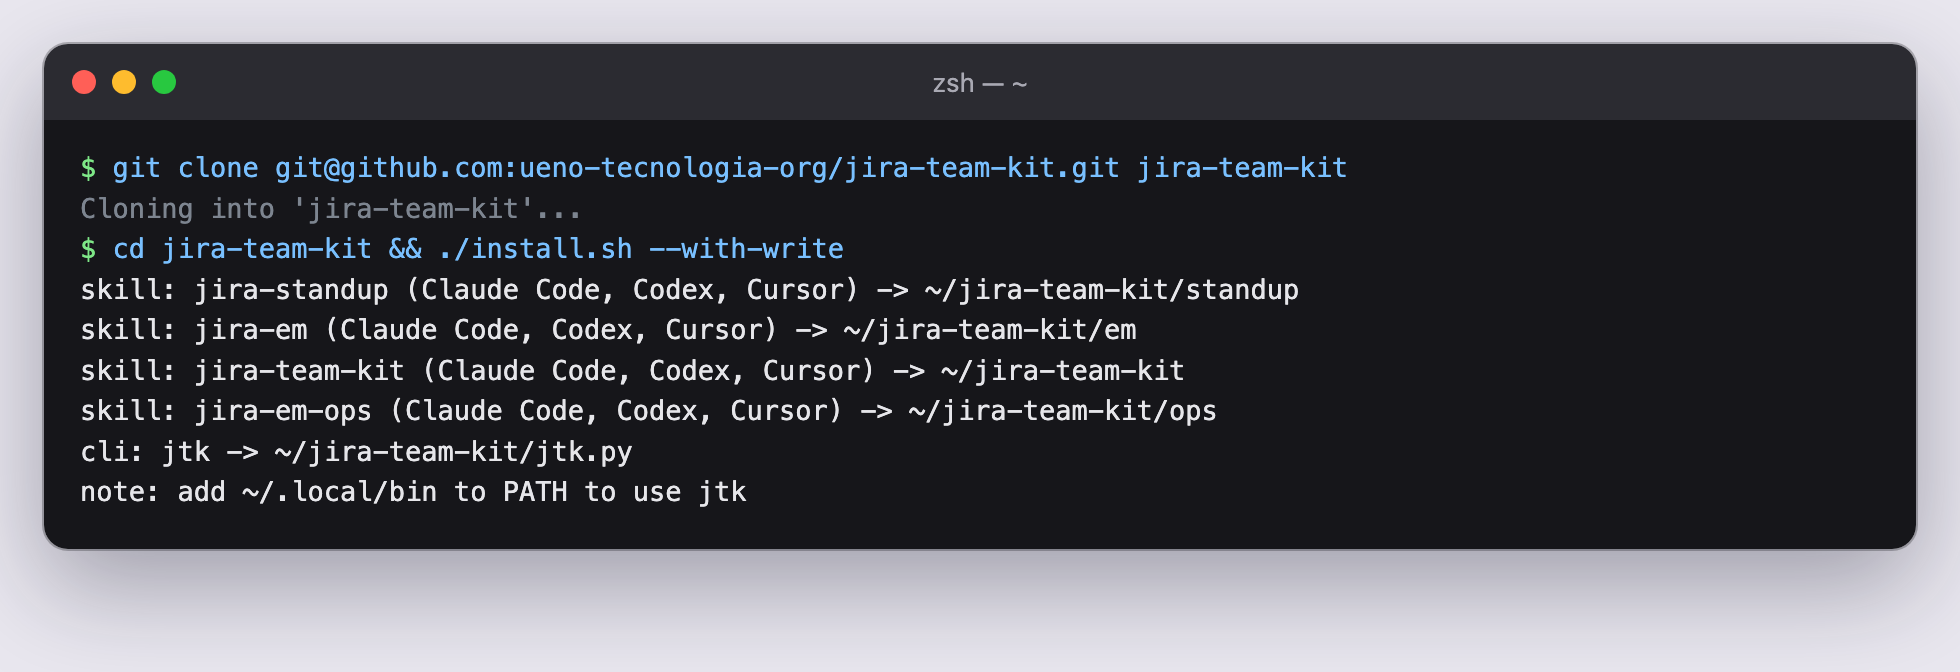
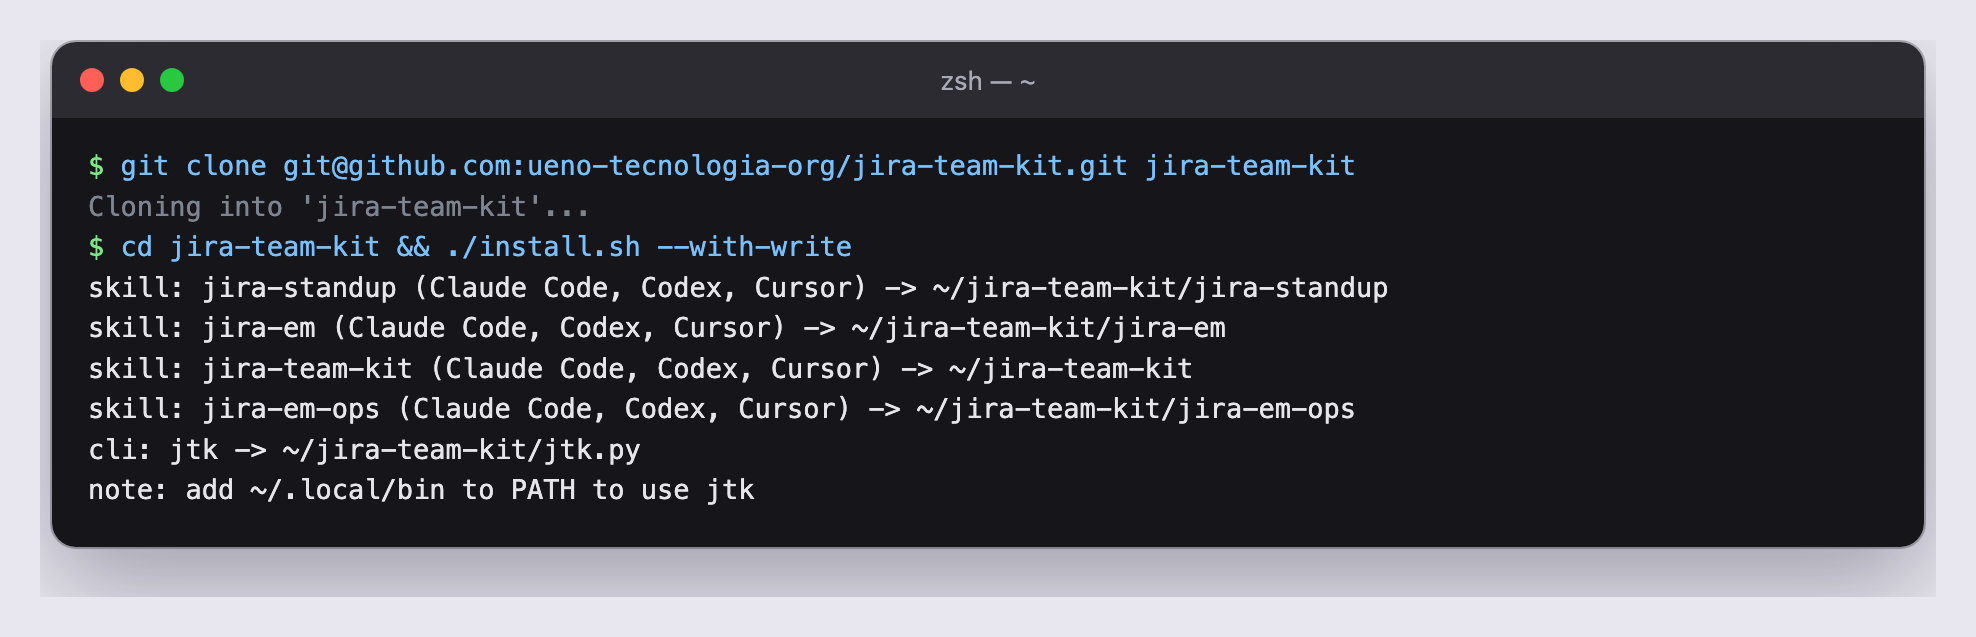
docs: regenerar las capturas del instalador con las carpetas jira-*
install.sh ahora imprime jira-standup, jira-em y jira-em-ops en lugar de
standup, em y ops. La salida sale de correr ./install.sh --with-write en un
HOME falso.

Changed region(s): [[0.0, 0.0597, 0.9959, 0.865], [0.4668, 0.1193, 0.5291, 0.1491]]

diff --git a/docs/img/src/cursor-instalar.html b/docs/img/src/cursor-instalar.html
@@ -17,9 +17,9 @@ code{font:12.5px Menlo,monospace;background:#2b2b34;padding:1px 5px;border-radiu
 .in{margin:6px 22px 16px;border:1px solid #3a3a46;border-radius:10px;padding:10px 14px;color:#6c6c7a;font-size:13px}
 .right{flex:1;display:flex;flex-direction:column;min-width:0}</style><div class="win"><div class="bar"><div class="dots"><span class="r"></span><span class="y"></span><span class="g"></span></div><div class="ttl">jira-team-kit — Cursor</div></div><div class="main"><div class="side"><b>EXPLORER</b><div class="hot">▾ mi-proyecto</div><div class="i">▸ src</div><div class="i hot">▾ .jira-kanban</div><div class="j">conventions.json</div><div class="i">▸ specs</div><div class="i">package.json</div><div class="i">README.md</div></div><div class="right"><div class="chat"><div class="u">Instalá jira-team-kit: cloná git@github.com:josefigueredo/jira-team-kit.git y corré ./install.sh --with-write</div><div class="a"><p>Lo clono y corro el instalador. Solo crea enlaces a tu clon; no copia ni pisa archivos.</p><span class="chip"><em>Ran</em> git clone git@github.com:josefigueredo/jira-team-kit.git jira-team-kit
 <span>Cloning into &#x27;jira-team-kit&#x27;...</span></span><span class="chip"><em>Ran</em> cd jira-team-kit &amp;&amp; ./install.sh --with-write
-<span>skill: jira-standup (Claude Code, Codex, Cursor) -&gt; ~/jira-team-kit/standup
-skill: jira-em (Claude Code, Codex, Cursor) -&gt; ~/jira-team-kit/em
+<span>skill: jira-standup (Claude Code, Codex, Cursor) -&gt; ~/jira-team-kit/jira-standup
+skill: jira-em (Claude Code, Codex, Cursor) -&gt; ~/jira-team-kit/jira-em
 skill: jira-team-kit (Claude Code, Codex, Cursor) -&gt; ~/jira-team-kit
-skill: jira-em-ops (Claude Code, Codex, Cursor) -&gt; ~/jira-team-kit/ops
+skill: jira-em-ops (Claude Code, Codex, Cursor) -&gt; ~/jira-team-kit/jira-em-ops
 cli: jtk -&gt; ~/jira-team-kit/jtk.py
 note: add ~/.local/bin to PATH to use jtk</span></span><p>Quedaron las 4 skills enlazadas para Claude Code, Codex y Cursor, y el comando <code>jtk</code> en <code>~/.local/bin</code>. Falta un paso tuyo: <code>~/.local/bin</code> no está en tu <code>PATH</code>. ¿Querés que lo agregue a tu <code>~/.zshrc</code>?</p></div></div><div class="in">Pedile algo al agente…</div></div></div></div>

diff --git a/docs/img/src/terminal-instalar.html b/docs/img/src/terminal-instalar.html
@@ -10,9 +10,9 @@
 </style><div class="win" style="width:936px"><div class="bar"><div class="dots"><span class="r"></span><span class="y"></span><span class="g"></span></div><div class="ttl">zsh — ~</div></div><div class="term"><span class="p">$</span> <span class="k">git clone git@github.com:josefigueredo/jira-team-kit.git jira-team-kit</span>
 <span class="c">Cloning into &#x27;jira-team-kit&#x27;...</span>
 <span class="p">$</span> <span class="k">cd jira-team-kit &amp;&amp; ./install.sh --with-write</span>
-<span class="o">skill: jira-standup (Claude Code, Codex, Cursor) -&gt; ~/jira-team-kit/standup</span>
-<span class="o">skill: jira-em (Claude Code, Codex, Cursor) -&gt; ~/jira-team-kit/em</span>
+<span class="o">skill: jira-standup (Claude Code, Codex, Cursor) -&gt; ~/jira-team-kit/jira-standup</span>
+<span class="o">skill: jira-em (Claude Code, Codex, Cursor) -&gt; ~/jira-team-kit/jira-em</span>
 <span class="o">skill: jira-team-kit (Claude Code, Codex, Cursor) -&gt; ~/jira-team-kit</span>
-<span class="o">skill: jira-em-ops (Claude Code, Codex, Cursor) -&gt; ~/jira-team-kit/ops</span>
+<span class="o">skill: jira-em-ops (Claude Code, Codex, Cursor) -&gt; ~/jira-team-kit/jira-em-ops</span>
 <span class="o">cli: jtk -&gt; ~/jira-team-kit/jtk.py</span>
 <span class="o">note: add ~/.local/bin to PATH to use jtk</span></div></div>
